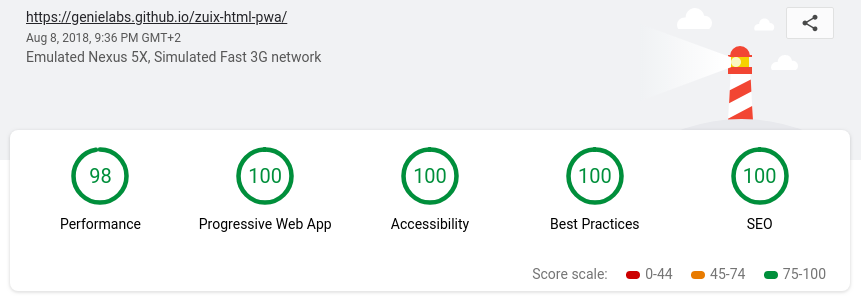
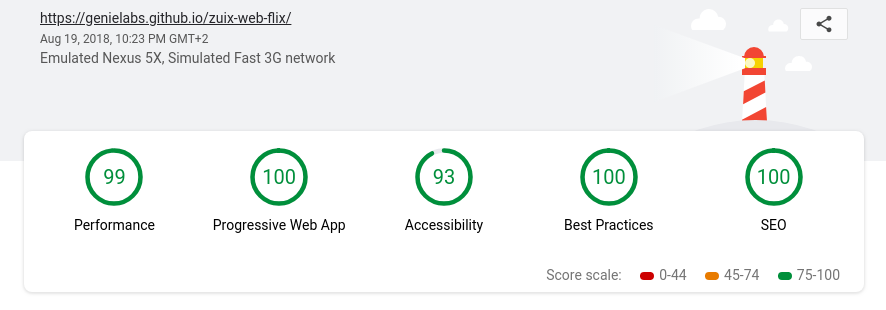
updated lighthouse report 99/100 =)

diff --git a/docs/app.bundle.js b/docs/app.bundle.js
@@ -1,4 +1,4 @@
-zuix.bundle([{"componentId":"_res\u002Fscript\u002Fscript-605580544","view":null,"css":null,"controller":"if ('serviceWorker' in navigator) {\n    const p = navigator.serviceWorker\n        .register('.\u002Fsw.js')\n        .then(reg =\u003E console.log('PWA service-worker ready.', reg))\n        .catch(err =\u003E console.error('Could not load service-worker.', err));\n}\n","using":".\u002Fservice-worker.js"},{"componentId":"_res\u002Fstyle\u002Fstyle-1784725062","view":null,"css":"\u002F* CSS files add styling rules to your content *\u002F\n\nbody {\n    font-family: \"Benton Sans\", \"Helvetica Neue\", helvetica, arial, sans-serif;\n    font-size: 16px;\n    margin: 0; padding: 0;\n    background: #101010;\n    -webkit-user-select:none;\n    -moz-user-select:none;\n    -ms-user-select:none;\n    user-select:none;\n    --overscroll-behavior-y: contain;\n}\n\nbutton:hover, a:hover {\n    cursor: pointer;\n    opacity: 0.8;\n}\n\na {\n    -webkit-user-select: none;\n    -khtml-user-select: none;\n    -moz-user-select: none;\n    -o-user-select: none;\n    user-select: none;\n}\n","controller":null,"using":".\u002Findex.css"},{"componentId":"https:\u002F\u002Fgenielabs.github.io\u002Fzkit\u002Flib\u002Fcontrollers\u002Fscroll_helper","controller":function(cp){const scrollInfo={timestamp:0,size:{width:0,height:0},viewport:{x:0,y:0,width:0,height:0}};let updateTimeout;let watchList;let watchCallback;let scrollToEndTs=0;cp.init=function(){cp.options().html=!1;cp.options().css=!1};cp.create=function(){if(cp.view().get()===document.body){if(cp.options().throttle>0){window.onscroll=throttle(scrollCheck,cp.options().throttle)}else{window.onscroll=scrollCheck}}else{if(cp.options().throttle>0){cp.view().on('scroll',throttle(scrollCheck,cp.options().throttle))}else{cp.view().on('scroll',scrollCheck)}}
+zuix.bundle([{"componentId":"_res\u002Fscript\u002Fscript-605580544","view":null,"css":null,"controller":"if ('serviceWorker' in navigator) {\n    const p = navigator.serviceWorker\n        .register('.\u002Fsw.js')\n        .then(reg =\u003E console.log('PWA service-worker ready.', reg))\n        .catch(err =\u003E console.error('Could not load service-worker.', err));\n}\n","using":".\u002Fservice-worker.js"},{"componentId":"_res\u002Fstyle\u002Fstyle-1784725062","view":null,"css":"\u002F* CSS files add styling rules to your content *\u002F\n\nbody {\n    font-family: \"Benton Sans\", \"Helvetica Neue\", helvetica, arial, sans-serif;\n    font-size: 16px;\n    margin: 0; padding: 0;\n    background: #101010;\n    -webkit-user-select:none;\n    -moz-user-select:none;\n    -ms-user-select:none;\n    user-select:none;\n    --overscroll-behavior-y: contain;\n}\n\nbutton:hover, a:hover {\n    cursor: pointer;\n    opacity: 0.8;\n}\n\na {\n    -webkit-user-select: none;\n    -khtml-user-select: none;\n    -moz-user-select: none;\n    -o-user-select: none;\n    user-select: none;\n}\n","controller":null,"using":".\u002Findex.css"},{"componentId":"https:\u002F\u002Fgenielabs.github.io\u002Fzkit\u002Flib\u002Fcontrollers\u002Fscroll_helper","controller":function(cp){const scrollInfo={timestamp:0,size:{width:0,height:0},viewport:{x:0,y:0,width:0,height:0}};let updateTimeout;let watchList;let watchCallback;let scrollToEndTs=0;cp.init=function(){cp.options().html=!1;cp.options().css=!1};cp.create=function(){if(cp.view().get()===document.body){if(cp.options().throttle>0){window.onscroll=throttle(scrollCheck,cp.options().throttle)}else{window.onscroll=scrollCheck}}else{if(cp.options().throttle>0){cp.view().on('scroll',throttle(scrollCheck,cp.options().throttle))}else{cp.view().on('scroll',scrollCheck)}}
         cp.expose('watch',function(filter,callback){setWatchList(filter,callback);return cp.context});cp.expose('scrollStart',function(duration){if(duration==null)duration=-1;scrollTo(0,duration);return cp.context}).expose('scrollEnd',function(duration){if(duration==null)duration=-1;scrollTo(scrollInfo.size.height,duration);return cp.context}).expose('scrollTo',function(to,duration){if(duration==null)duration=-1;scrollTo(to,duration);return cp.context}).expose('info',function(){return scrollInfo});scrollTo(5,-1);scrollTo(0,200)};let frameSkipTs;function scrollCheck(){if(updateTimeout!=null){clearTimeout(updateTimeout)}
         const now=new Date().getTime();if(now-scrollInfo.timestamp>100){updateScrollInfo()}else{updateTimeout=setTimeout(function(){updateScrollInfo()},99)}
         if(now<scrollToEndTs&&now-frameSkipTs<66){return}

diff --git a/README.md b/README.md
@@ -9,7 +9,7 @@ This template is built on just HTML, JavaScript and CSS so that it can be eventu
 - NetFlix app inspired design
 - Component-based web development with zUIx.js
 - In-Browser bundler to pack all resources in a single file and boost-up loading speed
-- PWA LightHouse score 98/100
+- PWA LightHouse score 99/100
 
 ![LightHouse Report](https://genielabs.github.io/zuix-web-flix/images/lighthouse-report.png)
 
